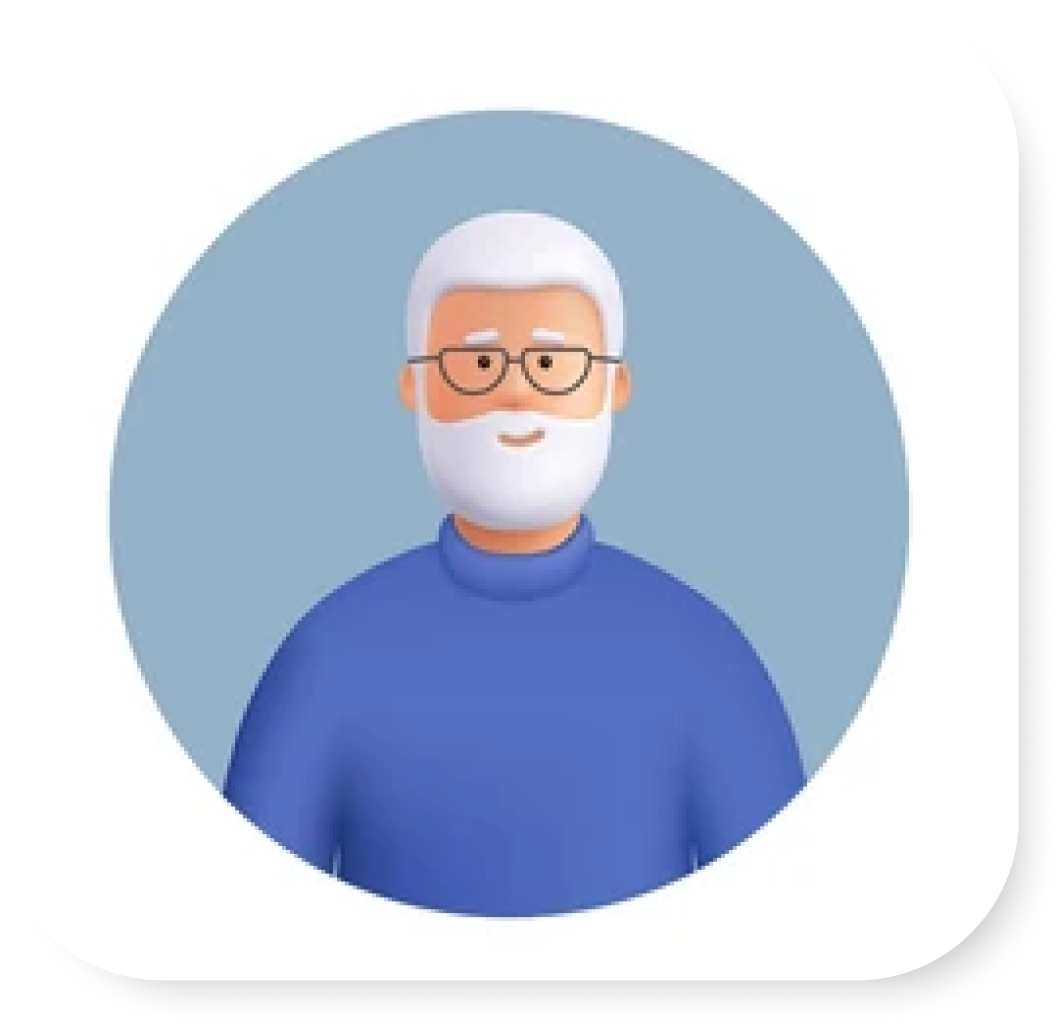
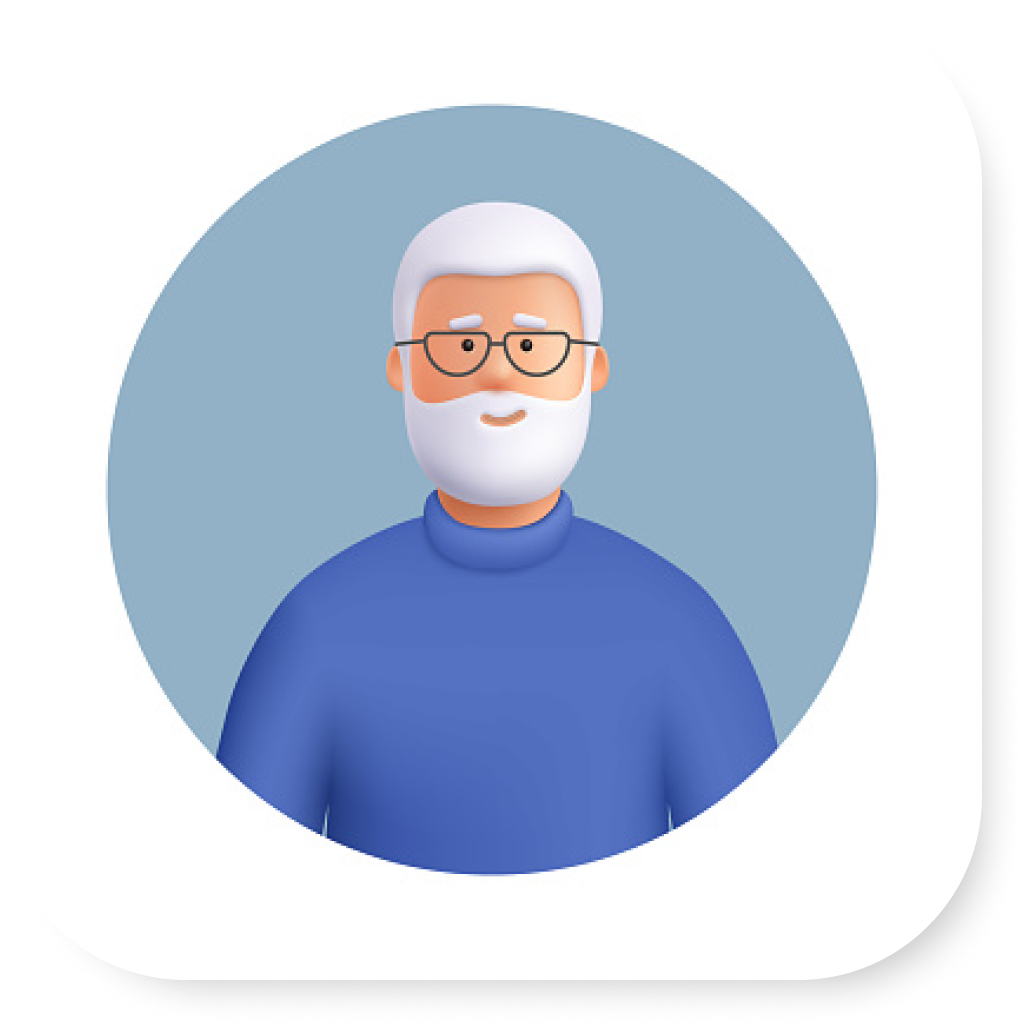
imaegs fixed

diff --git a/app/qr-code/page.tsx b/app/qr-code/page.tsx
@@ -1,22 +1,14 @@
 
 "use client";
 import QRCodeComponent from '@/components/QRCodeComponent/QRCodeComponent'
-import { Button } from '@/components/ui/button';
-import { Download, Printer } from 'lucide-react';
+
 const QRCodePage = () => {
   return (
     <div className='px-[10%] py-8 bg-[#CBE9EF]  flex flex-col justify-center items-center'>
          <h1 className="text-[30px] font-bold">All Done!</h1>
          <p className="font-medium">Download your QR Code and share with family</p>
          <div className='qr-code-container mt-20 flex flex-col gap-y-5   bg-white w-[90%] shadow-lg px-3 py-10 rounded-[31px]'>
-            
-            <div className='flex gap-x-5 items-center self-center translate-x-[12%] '>
-         <QRCodeComponent />
-         <div className='flex flex-col items-center gap-y-4'>
-            <Button className='bg-white border-2 border-[#7D9F0C] text-[#7D9F0C] '>Download <Download /></Button>
-            <Button className='bg-[#E7FBFF] border-2 border-[#2AA1B7] text-[#2AA1B7] w-fit '>Print <Printer /></Button>
-         </div>
-         </div>
+           <QRCodeComponent />
          <div className='flex gap-x-5 justify-between items-center w-full'>
          <div className='min-h-[1px] max-h-[1px] w-full bg-[#C1C1C1]'></div>
          <span className='text-nowrap text-center font-semibold text-[#6F6F6F]'>Want to redo <br />

diff --git a/components/QRCodeComponent/QRCodeComponent.tsx b/components/QRCodeComponent/QRCodeComponent.tsx
@@ -1,5 +1,9 @@
 import { useUserStore } from '@/store/user/userStore';
 import { useEffect, useRef } from 'react';
+import { Button } from '../ui/button';
+import { Download } from 'lucide-react';
+import { Printer } from 'lucide-react';
+import qrLogo from "@/assets/qr-logo.png"
 
 const QRCodeComponent = () => {
   const {user} = useUserStore();
@@ -12,7 +16,7 @@ const QRCodeComponent = () => {
         const qrCode = new QRCodeStyling({
           width: 300,
           height: 300,
-          image: "/qr-logo.png",
+          image: qrLogo.src,
           data: `https://mind-ar-backend-1.onrender.com/ar-app?id=${user?._id}`,
           dotsOptions: {
             color: "#072138",
@@ -38,7 +42,15 @@ const QRCodeComponent = () => {
     generateQRCode();
   }, []);
 
-  return <div ref={ref} />;
+  return(
+    <div className='flex gap-x-5 items-center self-center translate-x-[12%] '>
+  <div ref={ref} />
+  <div className='flex flex-col items-center gap-y-4'>
+     <Button className='bg-white border-2 border-[#7D9F0C] text-[#7D9F0C] '>Download <Download /></Button>
+     <Button className='bg-[#E7FBFF] border-2 border-[#2AA1B7] text-[#2AA1B7] w-fit '>Print <Printer /></Button>
+  </div>
+  </div>
+);
 };
 
 export default QRCodeComponent;

diff --git a/components/Footer/Footer.tsx b/components/Footer/Footer.tsx
@@ -4,6 +4,7 @@ import facebook from "@/assets/Facebook.png"
 import twitter from "@/assets/Twitter.png"
 import instagram from "@/assets/Instagram.png"
 import Image from "next/image";
+import logo from "@/assets/logo.png"
 
 
 const Footer = () => {
@@ -14,7 +15,7 @@ const Footer = () => {
       <div className="max-w-7xl mx-auto flex flex-col md:flex-row md:items-center justify-between">
         <div className="mb-6 md:mb-0 flex flex-col items-center">
             <div className="flex items-center">
-          <Image src="/logo.png" width={80} height={80} alt="QR Medic Logo" className=" mb-4" />
+          <Image src={logo} width={80} height={80} alt="QR Medic Logo" className=" mb-4" />
           <h3 className="font-semibold text-4xl text-[#14264C]">QR MEDIC</h3>
             </div>
           <p className="text-md ">&copy; 2024 QR Medic, Inc.</p>

diff --git a/components/Navbar/Navbar.tsx b/components/Navbar/Navbar.tsx
@@ -18,6 +18,7 @@ import { useModalStore } from "@/store/modal/ModalStore";
 import { useUserStore } from "@/store/user/userStore";
 import axios from "axios";
 import { useRouter } from "next/navigation";
+import logo from "@/assets/logo.png"
 
 const Navbar = () => {
   const { showSignInModal, setShowSignInModal } = useModalStore();
@@ -37,7 +38,7 @@ const Navbar = () => {
       {showSignInModal && <SignInModal />}
       <nav className="flex text-[#14264C] justify-between px-5  items-center">
         <Link className="flex  items-center" href={"/"}>
-          <Image width={70} height={70} src={"/logo.png"} alt="logo" />
+          <Image width={70} height={70} src={logo} alt="logo" />
           <h1 className="text-4xl font-semibold">QR MEDIC</h1>
         </Link>
         {user?

diff --git a/components/Hero/Hero.tsx b/components/Hero/Hero.tsx
@@ -3,6 +3,7 @@ import Image from "next/image"
 import { Button } from "../ui/button"
 import SignUpModal from "../SignUpModal/SignUpModal"
 import { useModalStore } from "@/store/modal/ModalStore"
+import oldGuy from "@/assets/old-man.png"
 const Hero = () => {
   const {showSignUpModal, setShowSignUpModal, setShowSignInModal} = useModalStore(state=>state)
   return (    
@@ -18,7 +19,7 @@ const Hero = () => {
             <div className="avatar rounded-[40px] shadow-[6.64px_7.38px_11.81px_-7.38px_#00000040]">
               <Image
                 className="overflow-hidden rounded-[60px]"
-                src={"/avatar-1.png"}
+                src={oldGuy}
                 alt="avatar"
                 width={254}
                 height={245}

diff --git a/app/health-form/page.tsx b/app/health-form/page.tsx
@@ -10,7 +10,8 @@ import { Label } from "@/components/ui/label";
 import { CldUploadButton } from "next-cloudinary";
 import Image from "next/image";
 import { User } from "lucide-react";
-// import QRCodeStyling from "qr-code-styling";
+import qrLogo from "@/assets/qr-logo.png"
+
 
 
 import {
@@ -168,7 +169,7 @@ const HealthForm = () => {
       const qrCode = new QRCodeStyling({
         width: 300,
         height: 300,
-        image: "/qr-logo.png",
+        image: qrLogo.src,
         data: `https://mind-ar-backend-1.onrender.com/ar-app?id=${user?._id}`,
         dotsOptions: {
           color: "#072138",
